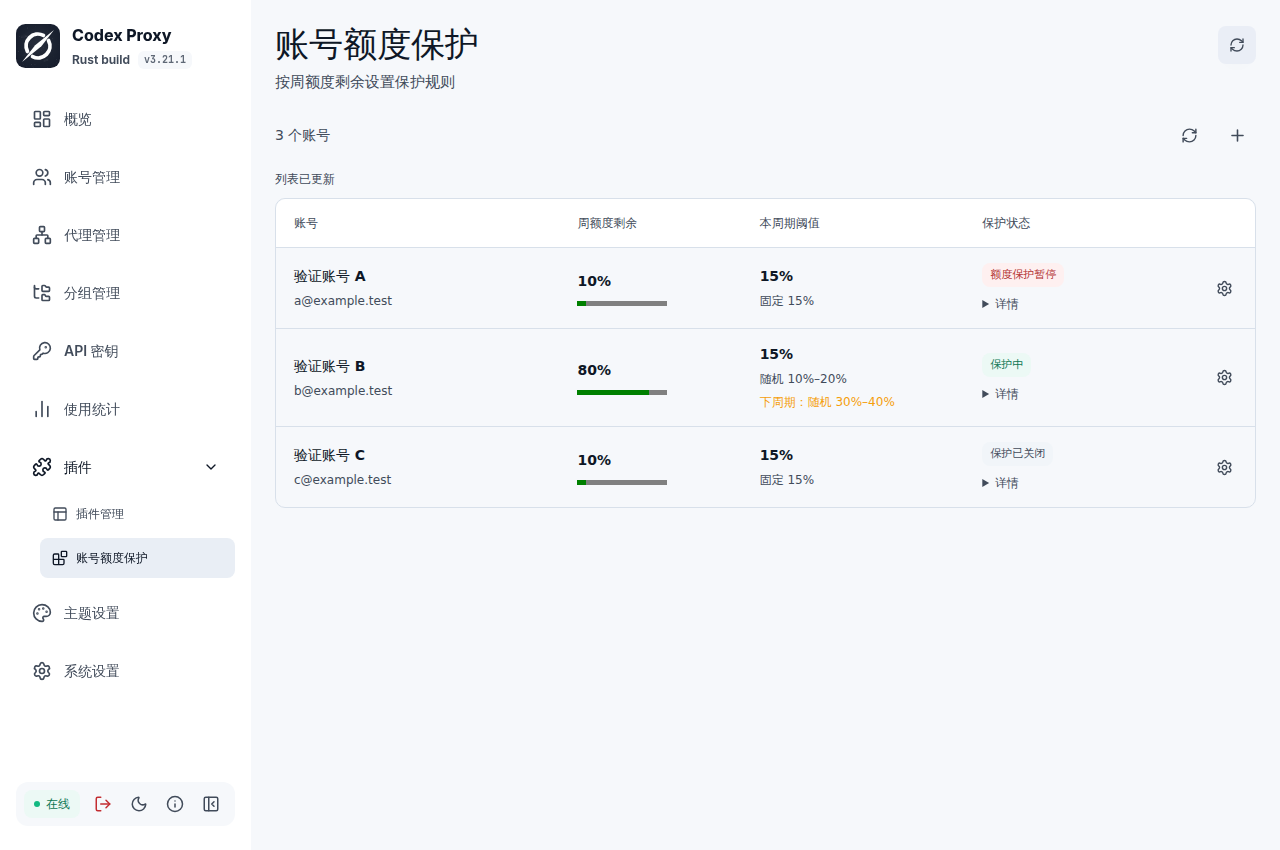
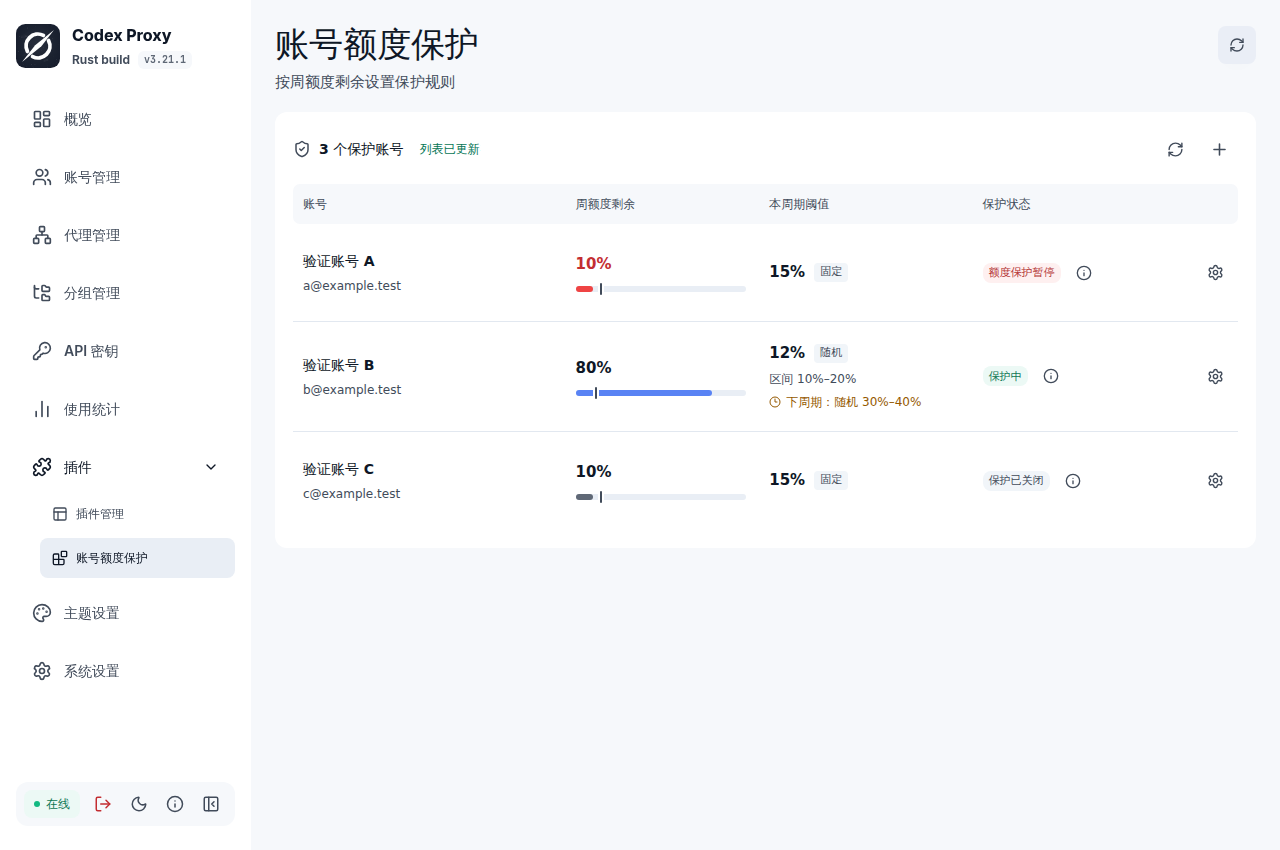
fix(ui): refine quota overview and account settings

diff --git a/frontend/src/App.vue b/frontend/src/App.vue
@@ -1,7 +1,7 @@
 <script setup lang="ts">
 import type { Row, Rule, Snapshot } from './api/modules/guard'
-import { BaseButton, BaseIconButton, BaseModal, BaseSelect, BaseSwitch, BaseTag } from '@codex-proxy/ui'
-import { Plus, RefreshCw, Settings } from '@lucide/vue'
+import { BaseButton, BaseIconButton, BaseModal, BasePopover, BaseSelect, BaseSwitch, BaseTag } from '@codex-proxy/ui'
+import { Clock3, Info, Plus, RefreshCw, Settings, ShieldCheck } from '@lucide/vue'
 import { computed, onMounted, ref } from 'vue'
 import { load, save } from './api/modules/guard'
 import { date, ruleError, ruleText } from './display'
@@ -26,6 +26,12 @@ const accounts = computed(() => (data.value?.accounts || []).map(a => ({
   disabled: !editing.value && !!data.value?.guards[a.account_id],
 })))
 const account = (id: string) => data.value?.accounts.find(a => a.account_id === id)
+const accountName = (id: string) => account(id)?.name?.trim() || account(id)?.email?.trim() || '账号已删除'
+function accountEmail(id: string) {
+  const email = account(id)?.email?.trim()
+  return email && email.toLowerCase() !== accountName(id).toLowerCase() ? email : ''
+}
+const remaining = (row: Row) => row.guard.latest ? Number((100 - row.guard.latest.used).toFixed(2)) : null
 const pending = (row: Row) => JSON.stringify(row.guard.configured) !== JSON.stringify(row.guard.current)
 const tone = (row: Row) => !row.guard.enabled ? 'neutral' : row.guard.blocked ? 'danger' : row.status === '等待额度数据' ? 'warning' : 'success'
 async function refresh(manual = true) {
@@ -75,7 +81,9 @@ onMounted(() => refresh(false))
 <template>
   <main>
     <div class="toolbar">
-      <span class="muted">{{ rows.length }} 个账号</span>
+      <div class="list-heading">
+        <ShieldCheck :size="18" /><span>{{ rows.length }} 个保护账号</span><span v-if="notice" role="status" class="notice">{{ notice }}</span>
+      </div>
       <div class="actions">
         <span class="tip-wrap">
           <BaseIconButton label="刷新列表" aria-describedby="refresh-tip" :disabled="busy" @click="refresh()">
@@ -94,9 +102,6 @@ onMounted(() => refresh(false))
     <p v-if="error" role="alert" class="error">
       {{ error }}
     </p>
-    <p v-if="notice" role="status" class="notice">
-      {{ notice }}
-    </p>
     <div v-if="!data && busy" class="empty">
       正在加载账号
     </div>
@@ -112,33 +117,53 @@ onMounted(() => refresh(false))
       </div>
       <div v-for="[id, row] in rows" :key="id" class="account-row">
         <div class="identity">
-          <strong>{{ account(id)?.name || '账号已删除' }}</strong>
-          <small>{{ account(id)?.email || id }}</small>
+          <strong>{{ accountName(id) }}</strong>
+          <small v-if="accountEmail(id)">{{ accountEmail(id) }}</small>
           <small v-if="account(id) && !account(id)?.enabled" class="warning">宿主已停用</small>
         </div>
         <div class="cell" data-label="周额度剩余">
-          <strong>{{ row.guard.latest ? `${Number((100 - row.guard.latest.used).toFixed(2))}%` : '暂无' }}</strong>
-          <progress v-if="row.guard.latest" :value="100 - row.guard.latest.used" max="100" aria-label="周额度剩余" />
+          <div class="quota" :class="{ 'quota-paused': row.guard.enabled && row.guard.blocked, 'quota-disabled': !row.guard.enabled }">
+            <strong class="numeric">{{ remaining(row) == null ? '暂无数据' : `${remaining(row)}%` }}</strong>
+            <div v-if="remaining(row) != null" class="quota-track" role="progressbar" aria-label="周额度剩余" :aria-valuenow="remaining(row)!" :aria-valuemin="0" :aria-valuemax="100" :aria-valuetext="`剩余 ${remaining(row)}%，保护阈值 ${row.guard.threshold ?? '待确定'}%`">
+              <span class="quota-fill" :style="{ width: `${remaining(row)}%` }" />
+              <span v-if="row.guard.threshold != null" class="quota-marker" :style="{ left: `${row.guard.threshold}%` }" :title="`保护阈值 ${row.guard.threshold}%`" />
+            </div>
+          </div>
         </div>
         <div class="cell" data-label="本周期阈值">
-          <strong>{{ row.guard.threshold == null ? '待确定' : `${row.guard.threshold}%` }}</strong>
-          <small>{{ ruleText(row.guard.current) }}</small>
-          <small v-if="pending(row)" class="warning">下周期：{{ ruleText(row.guard.configured) }}</small>
+          <div class="threshold-copy">
+            <div class="threshold-line">
+              <strong class="numeric">{{ row.guard.threshold == null ? '待确定' : `${row.guard.threshold}%` }}</strong><span class="mode-label">{{ row.guard.current.mode === 'fixed' ? '固定' : '随机' }}</span>
+            </div>
+            <small v-if="row.guard.current.mode === 'random'">区间 {{ row.guard.current.min }}%–{{ row.guard.current.max }}%</small>
+            <small v-if="pending(row)" class="pending-rule"><Clock3 :size="12" />下周期：{{ ruleText(row.guard.configured) }}</small>
+          </div>
         </div>
         <div class="cell" data-label="保护状态">
-          <BaseTag :type="tone(row)">
-            {{ row.status }}
-          </BaseTag>
-          <details>
-            <summary>详情</summary>
-            <div class="detail">
-              <p v-if="row.reason">
-                {{ row.reason }}
-              </p>
-              <p>额度观测：{{ date(row.guard.latest?.observed) }}</p>
-              <p>预计重置：{{ date(row.guard.latest?.reset) }}</p>
-            </div>
-          </details>
+          <div class="status-line">
+            <BaseTag :type="tone(row)" size="sm">
+              {{ row.status }}
+            </BaseTag>
+            <BasePopover placement="bottom-end">
+              <template #trigger="{ open: detailOpen }">
+                <BaseIconButton label="查看额度详情" title="查看额度详情" :aria-expanded="detailOpen">
+                  <Info :size="16" />
+                </BaseIconButton>
+              </template>
+              <section class="quota-detail" aria-label="额度详情">
+                <div class="detail-heading">
+                  <span>额度详情</span><span class="muted">本地时间</span>
+                </div>
+                <p class="detail-account">
+                  {{ accountName(id) }}
+                </p>
+                <dl><dt>额度更新时间</dt><dd>{{ date(row.guard.latest?.observed) }}</dd><dt>预计重置时间</dt><dd>{{ date(row.guard.latest?.reset) }}</dd><dt>本周期规则</dt><dd>{{ ruleText(row.guard.current) }}</dd></dl>
+                <p v-if="row.reason" class="detail-reason">
+                  <Clock3 :size="14" />{{ row.reason }}
+                </p>
+              </section>
+            </BasePopover>
+          </div>
         </div>
         <BaseIconButton label="设置账号保护" title="设置账号保护" :disabled="busy" @click="edit(id)">
           <Settings :size="17" />
@@ -148,14 +173,28 @@ onMounted(() => refresh(false))
   </main>
   <BaseModal v-model="open" :title="editing ? '账号保护设置' : '添加账号'" :dismissible="!busy" :draggable="false">
     <form class="form" @submit.prevent="submit">
-      <label>账号</label>
-      <BaseSelect v-model="accountId" :options="accounts" :disabled="editing || busy" placeholder="选择账号" />
-      <BaseSwitch v-model="enabled" label="启用保护" show-label :disabled="busy" />
-      <p v-if="!enabled" class="muted">
-        关闭后解除本插件的拦截，保留当前周期阈值
-      </p>
-      <label>阈值模式</label>
-      <BaseSelect v-model="mode" :options="[{ value: 'fixed', label: '固定阈值' }, { value: 'random', label: '每周期随机' }]" :disabled="busy" />
+      <div v-if="editing" class="edit-identity">
+        <span class="field-caption">保护账号</span><strong>{{ accountName(accountId) }}</strong><small v-if="accountEmail(accountId)">{{ accountEmail(accountId) }}</small>
+      </div>
+      <div v-else class="form-field">
+        <label>账号</label><BaseSelect v-model="accountId" :options="accounts" filterable :disabled="busy" placeholder="选择账号名称或邮箱" aria-label="账号" />
+      </div>
+      <div class="enable-row">
+        <div>
+          <span class="field-title">账号保护</span><p class="muted">
+            {{ enabled ? '低于阈值时拦截新请求' : '已解除拦截，保留当前周期阈值' }}
+          </p>
+        </div><BaseSwitch v-model="enabled" label="启用保护" :disabled="busy" />
+      </div>
+      <div class="form-field">
+        <label>阈值模式</label><div class="mode-picker" role="group" aria-label="阈值模式">
+          <button type="button" :aria-pressed="mode === 'fixed'" :disabled="busy" @click="mode = 'fixed'">
+            固定阈值
+          </button><button type="button" :aria-pressed="mode === 'random'" :disabled="busy" @click="mode = 'random'">
+            每周期随机
+          </button>
+        </div>
+      </div>
       <label v-if="mode === 'fixed'" class="field">剩余低于
         <span class="number"><input v-model.number="threshold" aria-label="固定阈值" type="number" min="1" max="100" step="1" :disabled="busy">%</span>
       </label>
@@ -163,10 +202,10 @@ onMounted(() => refresh(false))
         <label class="field">下限<span class="number"><input v-model.number="min" aria-label="随机下限" type="number" min="1" max="100" step="1" :disabled="busy">%</span></label>
         <label class="field">上限<span class="number"><input v-model.number="max" aria-label="随机上限" type="number" min="1" max="100" step="1" :disabled="busy">%</span></label>
       </div>
-      <p v-if="editing" class="muted">
+      <p v-if="editing" class="form-help">
         固定阈值修改立即生效，模式切换和随机区间修改在下个确认的周期生效
       </p>
-      <p v-else-if="mode === 'random'" class="muted">
+      <p v-else-if="mode === 'random'" class="form-help">
         每周期抽取一次，首次等待可识别的周额度周期
       </p>
       <p v-if="formError" role="alert" class="error">

diff --git a/frontend/src/style.css b/frontend/src/style.css
@@ -2,46 +2,93 @@
 @import '@codex-proxy/ui/tailwind.css';
 
 :root { color-scheme: light dark; }
-body { margin: 0; color: var(--cp-color-text); background: transparent; font-family: system-ui, sans-serif; font-size: 14px; }
-main { padding: 4px 0 20px; }
+body { margin: 0; color: var(--cp-color-text); background: transparent; font-family: var(--cp-font-family, system-ui, sans-serif); font-size: 14px; }
+main { padding: 22px; border-radius: 12px; background: var(--cp-color-bg-container); min-height: 280px; }
 .toolbar, .actions, .footer { display: flex; align-items: center; gap: 10px; }
 .toolbar { justify-content: space-between; margin-bottom: 16px; }
-.muted, small, summary { color: var(--cp-color-text-secondary); }
+.muted, small, .field-caption { color: var(--cp-color-text-secondary); }
 small { display: block; font-size: 12px; margin-top: 5px; overflow-wrap: anywhere; }
-.account-table { width: 100%; border: 1px solid var(--cp-color-border); border-radius: 10px; }
-.table-head, .account-row { display: grid; grid-template-columns: minmax(150px, 1.3fr) minmax(100px, .8fr) minmax(145px, 1fr) minmax(140px, 1fr) 32px; gap: 20px; padding: 15px 18px; align-items: center; }
-.table-head { color: var(--cp-color-text-secondary); font-size: 12px; background: var(--cp-color-bg-container); border-radius: 10px 10px 0 0; }
-.account-row { border-top: 1px solid var(--cp-color-border); }
+.account-table { width: 100%; }
+.table-head, .account-row { display: grid; grid-template-columns: minmax(160px, 1.65fr) minmax(120px, 1fr) minmax(160px, 1.15fr) minmax(135px, 1fr) 32px; gap: 24px; padding: 20px 14px; align-items: center; }
+.table-head { color: var(--cp-color-text-secondary); font-size: 12px; background: var(--cp-color-bg-layout); border-radius: 7px; padding-top: 11px; padding-bottom: 11px; }
+.account-row { border-bottom: 1px solid var(--cp-color-border-secondary); min-height: 98px; }
+.account-row:last-child { border-bottom: 0; }
 strong { font-weight: 600; }
-progress { display: block; width: 90px; height: 5px; margin-top: 9px; accent-color: var(--cp-color-primary); }
-summary { cursor: pointer; font-size: 12px; margin-top: 8px; }
-.detail { font-size: 12px; }
-.detail p { margin: 6px 0; }
 .empty { padding: 50px 10px; text-align: center; }
 .empty p { margin-bottom: 16px; }
-.error { color: var(--cp-color-error, #c2413a); margin: 10px 0; }
-.warning { color: var(--cp-color-warning, #a16207); }
+.error { color: var(--cp-color-error-text); margin: 10px 0; }
+.warning { color: var(--cp-color-warning-text); }
 .notice { font-size: 12px; color: var(--cp-color-text-secondary); margin: 10px 0; }
-.form { display: grid; gap: 12px; }
-.form > label, .field { font-weight: 500; }
-.field { display: grid; gap: 8px; }
-.range { display: grid; grid-template-columns: 1fr 1fr; gap: 16px; }
-.number { display: flex; gap: 8px; align-items: center; }
-input { min-width: 0; width: 100%; border: 1px solid var(--cp-color-border); border-radius: 6px; padding: 9px; background: var(--cp-color-bg-container); color: var(--cp-color-text); }
-input:focus { outline: 2px solid var(--cp-color-primary); }
-.footer { justify-content: flex-end; margin-top: 12px; }
 .tip-wrap { position: relative; }
 .tooltip { display: none; position: absolute; z-index: 20; right: 0; top: calc(100% + 8px); width: max-content; max-width: min(330px, 80vw); padding: 8px 10px; font-size: 12px; border: 1px solid var(--cp-color-border); border-radius: 6px; background: var(--cp-color-bg-container); box-shadow: 0 3px 12px #0002; }
 .tip-wrap:hover .tooltip, .tip-wrap:focus-within .tooltip { display: block; }
 .spin { animation: spin 1s linear infinite; }
 @keyframes spin { to { transform: rotate(360deg); } }
-@media (max-width: 680px) {
+* { box-sizing: border-box; }
+.list-heading, .status-line, .threshold-line, .enable-row { display: flex; align-items: center; }
+.list-heading { flex-wrap: wrap; gap: 8px; font-weight: 600; }
+.list-heading > svg { color: var(--cp-color-text-secondary); }
+.list-heading .notice { font-size: 12px; color: var(--cp-color-success-text); font-weight: 400; margin: 0 0 0 8px; }
+.actions { flex-shrink: 0; gap: 6px; }
+.identity, .cell { min-width: 0; }
+.identity strong { display: block; overflow-wrap: anywhere; line-height: 1.6; }
+.numeric { font-variant-numeric: tabular-nums; }
+.quota { width: min(100%, 170px); }
+.quota strong, .threshold-line strong { font-size: 15px; }
+.quota-track { position: relative; height: 6px; margin-top: 11px; border-radius: 99px; background: var(--cp-color-fill-secondary); }
+.quota-fill { display: block; height: 100%; border-radius: inherit; background: var(--cp-color-primary); }
+.quota-paused .quota-fill { background: var(--cp-color-error); }
+.quota-paused strong { color: var(--cp-color-error-text); }
+.quota-disabled .quota-fill { background: var(--cp-color-text-quaternary); }
+.quota-marker { position: absolute; top: -3px; bottom: -3px; width: 2px; transform: translateX(-1px); border-radius: 2px; background: var(--cp-color-text-secondary); box-shadow: 0 0 0 2px var(--cp-color-bg-container); }
+.threshold-line { gap: 9px; }
+.mode-label { color: var(--cp-color-text-secondary); background: var(--cp-color-fill-tertiary); padding: 1px 6px; border-radius: 4px; font-size: 11px; }
+.pending-rule { display: flex; align-items: center; gap: 5px; color: var(--cp-color-warning-text); }
+.pending-rule svg { flex-shrink: 0; }
+.status-line { gap: 4px; }
+.quota-detail { width: min(330px, calc(100vw - 32px)); padding: 18px 20px; font-size: 12px; }
+.detail-heading { display: flex; justify-content: space-between; gap: 16px; font-weight: 600; font-size: 13px; }
+.detail-heading .muted { font-weight: 400; font-size: 11px; }
+.detail-account { margin: 7px 0 16px; color: var(--cp-color-text-secondary); overflow-wrap: anywhere; }
+.quota-detail dl { display: grid; grid-template-columns: auto 1fr; gap: 12px 18px; margin: 0; }
+.quota-detail dt { color: var(--cp-color-text-secondary); }
+.quota-detail dd { margin: 0; text-align: right; font-variant-numeric: tabular-nums; overflow-wrap: anywhere; }
+.detail-reason { display: flex; align-items: center; gap: 6px; margin: 16px 0 0; padding-top: 12px; border-top: 1px solid var(--cp-color-border-secondary); color: var(--cp-color-warning-text); }
+.detail-reason svg { flex-shrink: 0; }
+.form { display: grid; gap: 20px; padding-top: 4px; }
+.edit-identity { display: grid; gap: 6px; overflow-wrap: anywhere; }
+.edit-identity small { margin-top: 0; }
+.field-caption { font-size: 12px; }
+.enable-row { justify-content: space-between; gap: 20px; padding: 18px 0; border-top: 1px solid var(--cp-color-border-secondary); border-bottom: 1px solid var(--cp-color-border-secondary); }
+.field-title, .form label { font-weight: 500; font-size: 13px; }
+.enable-row p { font-size: 12px; margin: 6px 0 0; }
+.form-field, .field { display: grid; gap: 10px; }
+.mode-picker { display: grid; grid-template-columns: 1fr 1fr; gap: 4px; padding: 4px; background: var(--cp-color-bg-layout); border-radius: 8px; }
+.mode-picker button { padding: 9px 12px; font-size: 13px; border: 0; border-radius: 6px; color: var(--cp-color-text-secondary); background: transparent; cursor: pointer; }
+.mode-picker button[aria-pressed='true'] { color: var(--cp-color-primary-text); background: var(--cp-color-bg-container); box-shadow: 0 1px 4px #00000012; font-weight: 600; }
+.mode-picker button:focus-visible { outline: 2px solid var(--cp-color-primary); outline-offset: 1px; }
+.mode-picker button:disabled { cursor: default; opacity: .6; }
+.range { display: grid; grid-template-columns: 1fr 1fr; gap: 16px; }
+.number { display: flex; align-items: center; border: 1px solid var(--cp-color-border); border-radius: 8px; background: var(--cp-color-bg-container); padding-right: 14px; color: var(--cp-color-text-secondary); }
+.number:focus-within { border-color: var(--cp-color-primary); box-shadow: 0 0 0 2px var(--cp-color-primary-container); }
+.number input { min-width: 0; width: 100%; border: 0; padding: 11px 12px; background: transparent; color: var(--cp-color-text); font-size: 16px; font-variant-numeric: tabular-nums; outline: none; }
+.form-help { margin: -6px 0 0; color: var(--cp-color-text-secondary); font-size: 12px; line-height: 1.7; }
+.footer { justify-content: flex-end; gap: 10px; padding-top: 18px; border-top: 1px solid var(--cp-color-border-secondary); }
+@media (prefers-reduced-motion: reduce) { .spin { animation: none; } }
+@media (max-width: 1050px) {
+  main { padding: 18px; }
+  .table-head, .account-row { gap: 16px; padding-left: 10px; padding-right: 10px; grid-template-columns: minmax(140px, 1.3fr) minmax(100px, .9fr) minmax(140px, 1fr) minmax(130px, 1fr) 32px; }
+}
+@media (max-width: 800px) {
   .table-head { display: none; }
-  .account-row { grid-template-columns: 1fr auto; gap: 14px; }
-  .account-row:first-child { border-top: 0; }
-  .identity { grid-column: 1; }
-  .account-row > button { grid-column: 2; grid-row: 1; }
-  .cell { grid-column: 1 / -1; display: grid; grid-template-columns: 110px 1fr; align-items: start; }
+  .toolbar { margin-bottom: 8px; }
+  .list-heading .notice { width: 100%; margin-left: 26px; }
+  .account-row { position: relative; grid-template-columns: 1fr; gap: 20px; padding: 24px 0; }
+  .identity { padding-right: 40px; }
+  .account-row > button { position: absolute; top: 20px; right: 0; }
+  .cell { display: grid; grid-template-columns: 100px minmax(0, 1fr); align-items: center; gap: 16px; }
   .cell::before { content: attr(data-label); color: var(--cp-color-text-secondary); font-size: 12px; }
-  .cell > small, .cell > progress, .cell > details { grid-column: 2; }
+  .quota { justify-self: end; width: min(100%, 170px); text-align: right; }
+  .threshold-copy { text-align: right; }
+  .threshold-line, .pending-rule, .status-line { justify-content: flex-end; }
 }
